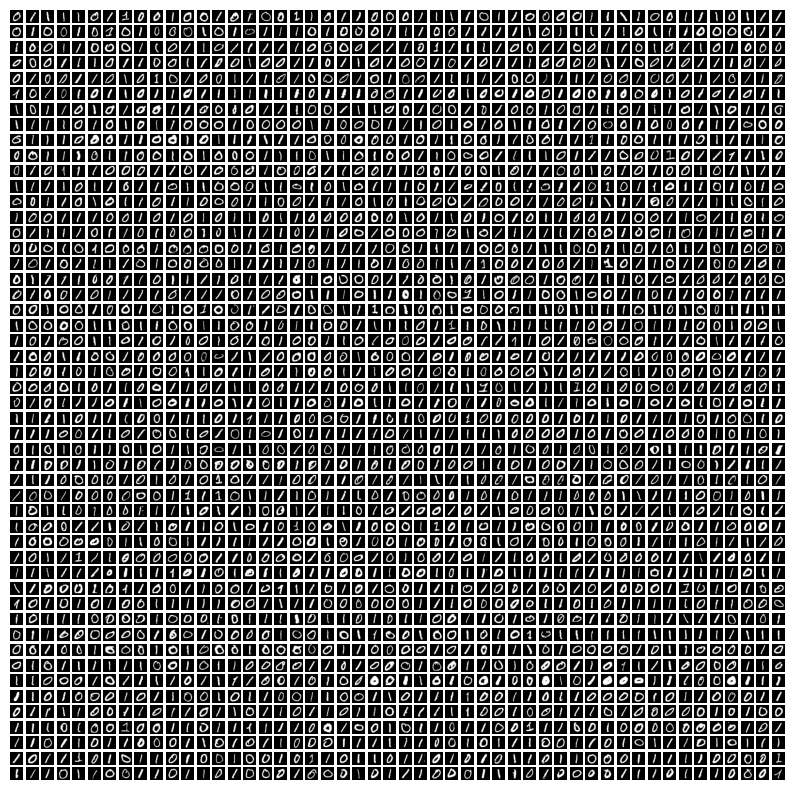
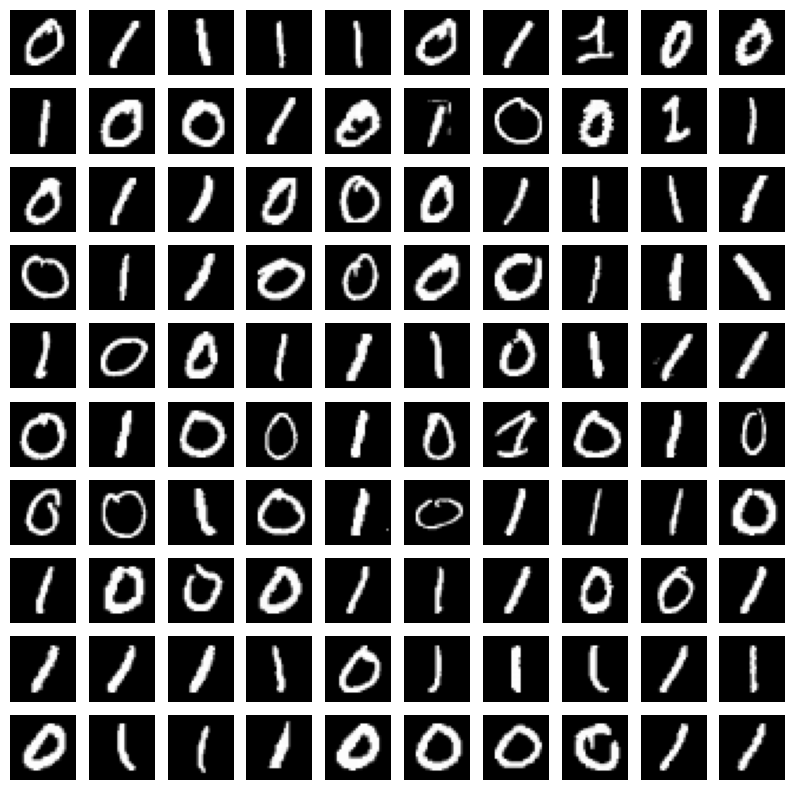
normalized x_train

diff --git a/NN/nn.py b/NN/nn.py
@@ -2,9 +2,15 @@ import numpy as np
 from tensorflow.keras.datasets import mnist
 import matplotlib.pyplot as plt
 
+'''Data'''
+(x_train,y_train) , (x_set , y_set) = mnist.load_data()
+filter_train = (y_train == 0) | (y_train == 1)
+x_train_filtered, y_train_filtered = x_train[filter_train], y_train[filter_train]
+#Normalize 
+x_train_filtered = x_train_filtered/255 
+
 ''' Avoid Large Initial Values: If we start with large weights, 
     the outputs of each layer could explode. '''
-
 W1 = np.random.randn(784,25) * 0.01
 b1 = np.zeros(25)
 
@@ -18,32 +24,45 @@ b3 = np.zeros(1)
 def sigmoid(z):
     return 1 / ( 1 + np.exp(-z))
 
-(x_train,y_train) , (x_set , y_set) = mnist.load_data()
-filter_train = (y_train == 0) | (y_train == 1)
-x_train_filtered, y_train_filtered = x_train[filter_train], y_train[filter_train]
+#cost function
 
-x_train = x_train_filtered/255
-y_train = y_train_filtered
+def compute_cost(y , y_hat):
+    m = y.shape[0]
+    y_hat = np.clip(y_hat, 1e-10, 1 - 1e-10) #limits the values in an array to a specified range
+    '''Non vectorized approach'''
+    # cost = 0
+    # for i in range(m):
+    #     loss = (y[i] * np.log(y_hat[i])) + ((1 - y[i])*np.log(1-y_hat[i]))
+    #     cost += (-1 / m) * loss
+    '''Vectorized'''
+    cost = (-1 / m) * np.sum( (y * np.log(y_hat))  + (1 - y) *  np.log(1 - y_hat))
+    return cost 
 
 '''simulation of a forward pass in neural network'''
 
 def forward_pass(x):
-    z1 = np.dot(W1,x) + b1
-    a1 = sigmoid(z1)
+    print(f"Input image vector :{x}")
+    x = x.flatten().reshape(1, -1)  # Flatten and reshape x to be (1, 784)
+    print(f"Input image vector flattened :{x}")
 
-    z2 = np.dot(W2,a1) + b2
+    z1 = np.dot(x,W1) + b1
+    print(f"z1 = {x} * {W1} + {b1}")
+    print(f"1st z1:{z1}")
+    a1 = sigmoid(z1)
+    print(f"1st a1 (sigmoid) :{a1}")
+
+    z2 = np.dot(a1,W2) + b2
     a2 = sigmoid(z2)
 
-    z3 = np.dot(W3,a2) + b3
+    z3 = np.dot(a2,W3) + b3
     a3 = sigmoid(z3)
 
     return a3
 
-sample_image = x_train_filtered[0]  # Choose the first image (shape: 28x28)
-sample_image = sample_image.flatten().reshape(-1, 1)  # Flatten and reshape to (1, 784)
-# Perform forward pass
-a3 = forward_pass(sample_image)
-# print(a3)
+sample_image = x_train_filtered[1]  # Choose the first image (shape: 28x28)
+a1 = forward_pass(sample_image)
+print(a1)
+
 
 
 #-=-=-=-=-=-=-=-=-=-=-=-=-=-=-=-=-=-=-=-
@@ -66,4 +85,4 @@ def print_sample_data(rows=10,cols=10):
 
 
 
-print_sample_data(50,50)
+# print_sample_data(10,10)
